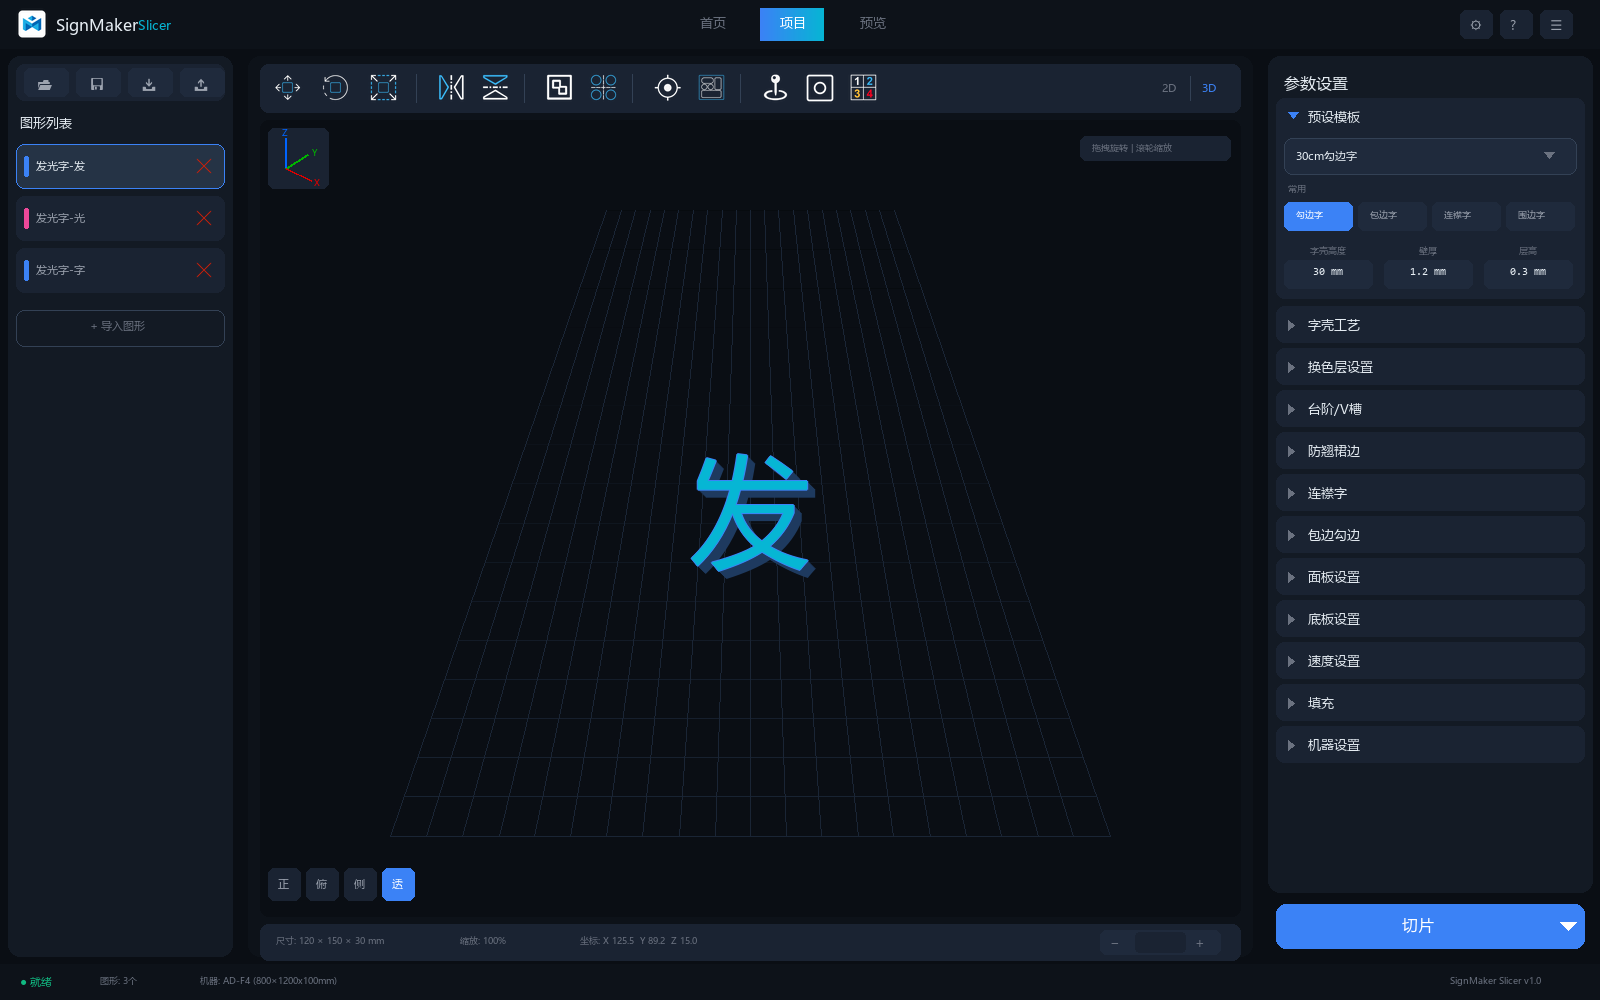
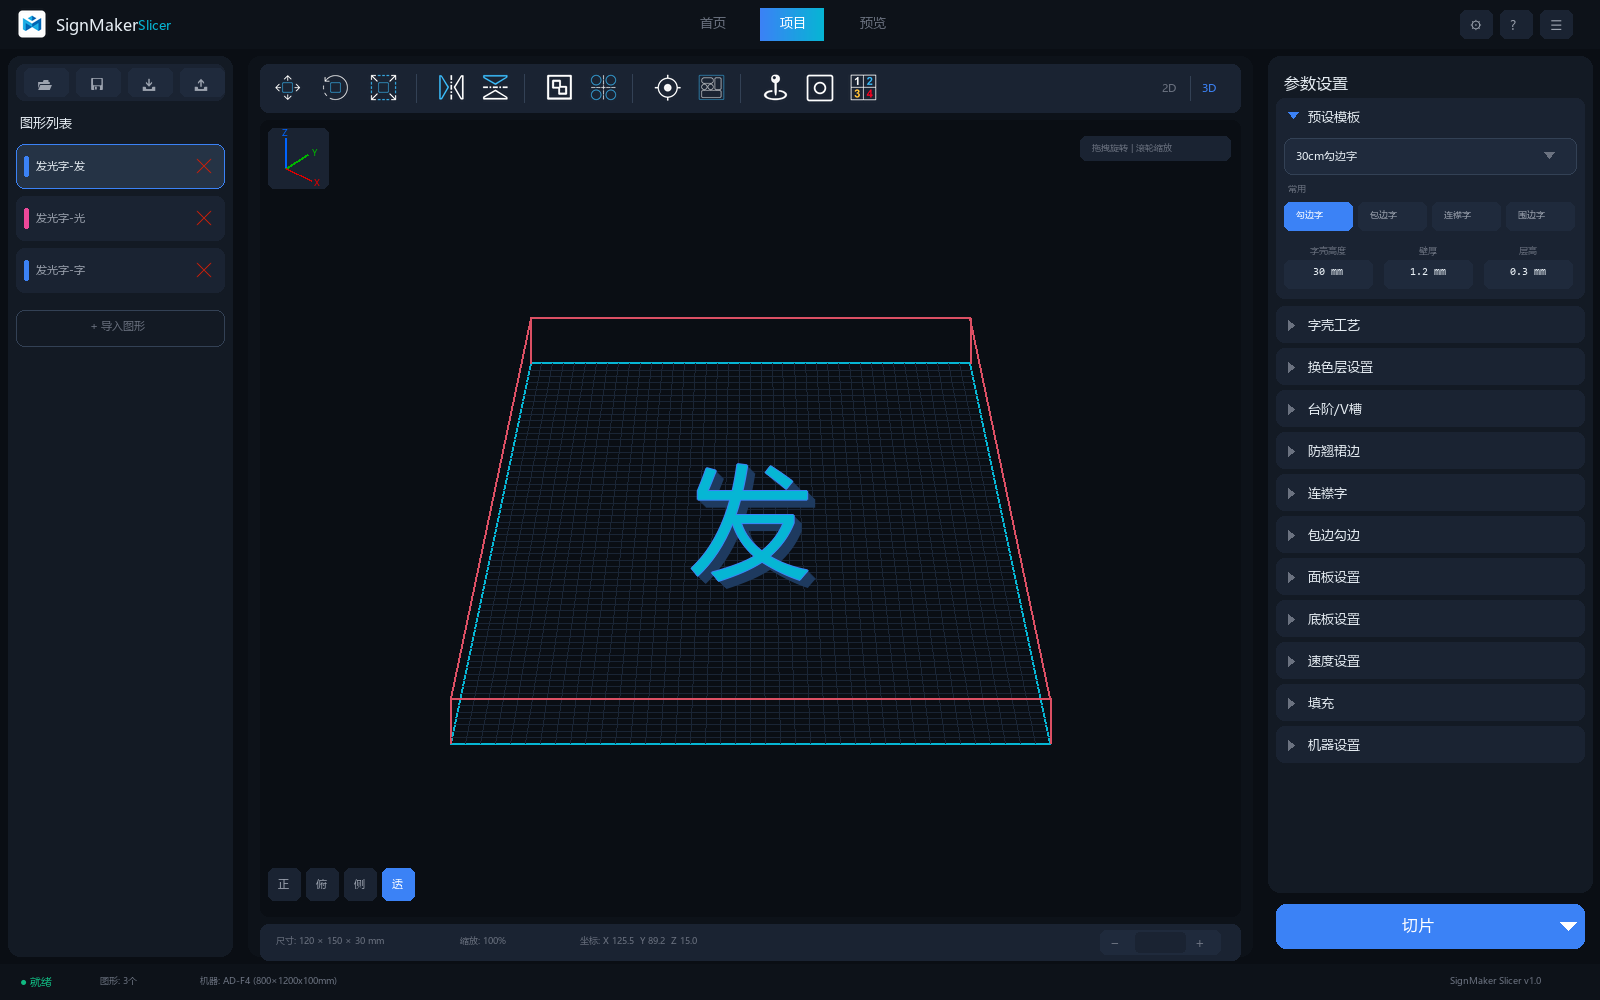
fix: 3D平台网格只绘制在底面，修复透视效果
将网格线从顶面移至底面（青色边框区域），使3D平台呈现正确的立体效果

Changed region(s): [[0.2812, 0.31, 0.6562, 0.775]]

diff --git a/scripts/generate_ui_project_3d.py b/scripts/generate_ui_project_3d.py
@@ -340,49 +340,89 @@ hint_y = inner_canvas_y + 16
 draw_rounded_rect(hint_x, hint_y, 150, 24, 6, fill=C["bg_card"])
 draw_text(hint_x + 12, hint_y + 5, hint_text, font_small, C["text_muted"])
 
-# 3D网格地面 (透视效果) - 机器尺寸800×1200mm，每格40mm
-grid_center_x = canvas_x + canvas_w // 2
-grid_center_y = inner_canvas_y + inner_canvas_h - 80
+# 3D网格平台 - 简单透视效果
+# 参考效果图：前宽后窄的透视长方体
 
-# 绘制透视网格
+# 画布中心
+canvas_center_x = canvas_x + canvas_w // 2
+canvas_center_y = inner_canvas_y + inner_canvas_h // 2
+
+# 平台尺寸参数（像素）
+platform_front_width = 600   # 前边宽度
+platform_back_width = 440    # 后边宽度（透视收缩）
+platform_depth = 380         # 前后深度（Y方向像素）
+platform_height = 45         # 高度（Z方向）
+
+# 顶面位置
+top_front_y = canvas_center_y + 180  # 前边Y（靠近底部）
+top_back_y = top_front_y - platform_depth  # 后边Y（靠近顶部）
+
+# 边框颜色
+border_color_top = (220, 80, 100)  # 红色 - 顶面和垂直边框
+border_color_bottom = C["accent_secondary"]  # 青色 - 底面边框
 grid_color = C["grid_3d"]
-vanish_y = inner_canvas_y + 30  # 消失点
 
-# 网格参数：800×1200mm，40mm一格
-# X方向(宽度): 800/40 = 20格，21条线
-# Y方向(深度): 1200/40 = 30格，用透视效果只显示部分
-grid_base_width = 360  # 底部宽度（对应800mm）
-grid_depth_lines = 16  # 深度方向显示的线数
+# ---- 顶面四个角（整数坐标）----
+tf_fl_x = canvas_center_x - platform_front_width // 2  # 前左X
+tf_fr_x = canvas_center_x + platform_front_width // 2  # 前右X
+tf_bl_x = canvas_center_x - platform_back_width // 2   # 后左X
+tf_br_x = canvas_center_x + platform_back_width // 2   # 后右X
 
-# 横向网格线 (透视) - Y方向深度
-grid_step_y = (grid_center_y - vanish_y - 60) / grid_depth_lines
-for i in range(grid_depth_lines + 1):
-    y_pos = int(grid_center_y - i * grid_step_y)
-    # 随着距离变远，线条逐渐收窄（透视效果）
-    shrink = 1 - (i / grid_depth_lines) * 0.6
-    half_width = int(grid_base_width * shrink)
-    if y_pos > vanish_y:
-        alpha = max(0.3, 1 - i * 0.05)
-        line_color = tuple(int(c * alpha) for c in grid_color)
-        draw.line([(grid_center_x - half_width, y_pos),
-                   (grid_center_x + half_width, y_pos)], fill=line_color, width=1)
+# ---- 底面四个角 (在顶面下方，Y坐标一致偏移) ----
+bf_front_y = top_front_y + platform_height
+bf_back_y = top_back_y + platform_height  # 修正：底面后边偏移量和前边一致
 
-# 纵向网格线 (透视 - 向消失点汇聚) - X方向20格
-grid_lines_x = 21  # 800/40=20格，21条线
-for i in range(grid_lines_x):
-    # 底部位置：均匀分布
-    ratio = (i / (grid_lines_x - 1)) - 0.5  # -0.5 到 0.5
-    bottom_x = grid_center_x + int(ratio * 2 * grid_base_width)
-    # 顶部位置：向消失点汇聚
-    top_x = grid_center_x + int(ratio * 2 * grid_base_width * 0.4)
-    top_y = int(grid_center_y - grid_depth_lines * grid_step_y)
-    draw.line([(bottom_x, grid_center_y), (top_x, top_y)], fill=grid_color, width=1)
+# ---- 绘制底面边框 ----
+draw.line([(tf_fl_x, bf_front_y), (tf_fr_x, bf_front_y)], fill=border_color_bottom, width=2)
+draw.line([(tf_fr_x, bf_front_y), (tf_br_x, bf_back_y)], fill=border_color_bottom, width=2)
+draw.line([(tf_br_x, bf_back_y), (tf_bl_x, bf_back_y)], fill=border_color_bottom, width=2)
+draw.line([(tf_bl_x, bf_back_y), (tf_fl_x, bf_front_y)], fill=border_color_bottom, width=2)
+
+# ---- 绘制四条垂直边线 ----
+draw.line([(tf_fl_x, top_front_y), (tf_fl_x, bf_front_y)], fill=border_color_top, width=2)
+draw.line([(tf_fr_x, top_front_y), (tf_fr_x, bf_front_y)], fill=border_color_top, width=2)
+draw.line([(tf_bl_x, top_back_y), (tf_bl_x, bf_back_y)], fill=border_color_top, width=2)
+draw.line([(tf_br_x, top_back_y), (tf_br_x, bf_back_y)], fill=border_color_top, width=2)
+
+# ---- 绘制底面网格（严格在青色边框内）----
+# 机器尺寸 800x1200mm，格子20mm一格
+# X方向: 800/20 = 40格
+# Y方向: 1200/20 = 60格
+grid_x_count = 40
+grid_y_count = 60
+
+# 只绘制内部网格线（不包括边框线）
+# 横向网格线 (从前到后) - 绘制在底面
+for i in range(1, grid_y_count):  # 不包括第一条和最后一条（边框会覆盖）
+    t = i / grid_y_count
+    # 当前行的Y坐标（从前边到后边线性插值）- 使用底面Y坐标
+    y = bf_front_y + int((bf_back_y - bf_front_y) * t)
+    # 当前行的左右X坐标（沿左右边线插值）
+    left_x = tf_fl_x + int((tf_bl_x - tf_fl_x) * t)
+    right_x = tf_fr_x + int((tf_br_x - tf_fr_x) * t)
+    draw.line([(left_x, y), (right_x, y)], fill=grid_color, width=1)
+
+# 纵向网格线 (从左到右) - 绘制在底面
+for i in range(1, grid_x_count):  # 不包括第一条和最后一条（边框会覆盖）
+    t = i / grid_x_count
+    # 前边的X坐标
+    front_x = tf_fl_x + int((tf_fr_x - tf_fl_x) * t)
+    # 后边的X坐标
+    back_x = tf_bl_x + int((tf_br_x - tf_bl_x) * t)
+    draw.line([(front_x, bf_front_y), (back_x, bf_back_y)], fill=grid_color, width=1)
+
+# ---- 顶面边框 (最后绘制，覆盖网格边缘) ----
+draw.line([(tf_fl_x, top_front_y), (tf_fr_x, top_front_y)], fill=border_color_top, width=2)
+draw.line([(tf_fr_x, top_front_y), (tf_br_x, top_back_y)], fill=border_color_top, width=2)
+draw.line([(tf_br_x, top_back_y), (tf_bl_x, top_back_y)], fill=border_color_top, width=2)
+draw.line([(tf_bl_x, top_back_y), (tf_fl_x, top_front_y)], fill=border_color_top, width=2)
 
 # ============================================
 # 绘制3D字壳模型 - "发"字 (简单3D效果)
 # ============================================
-cx = grid_center_x
-cy = inner_canvas_y + inner_canvas_h // 2 - 30
+# 文字在画布中央偏上
+cx = canvas_center_x
+cy = canvas_center_y - 20
 
 char_font = ImageFont.truetype("msyh.ttc", 120) if os.path.exists("C:\\Windows\\Fonts\\msyh.ttc") else font_large
 
